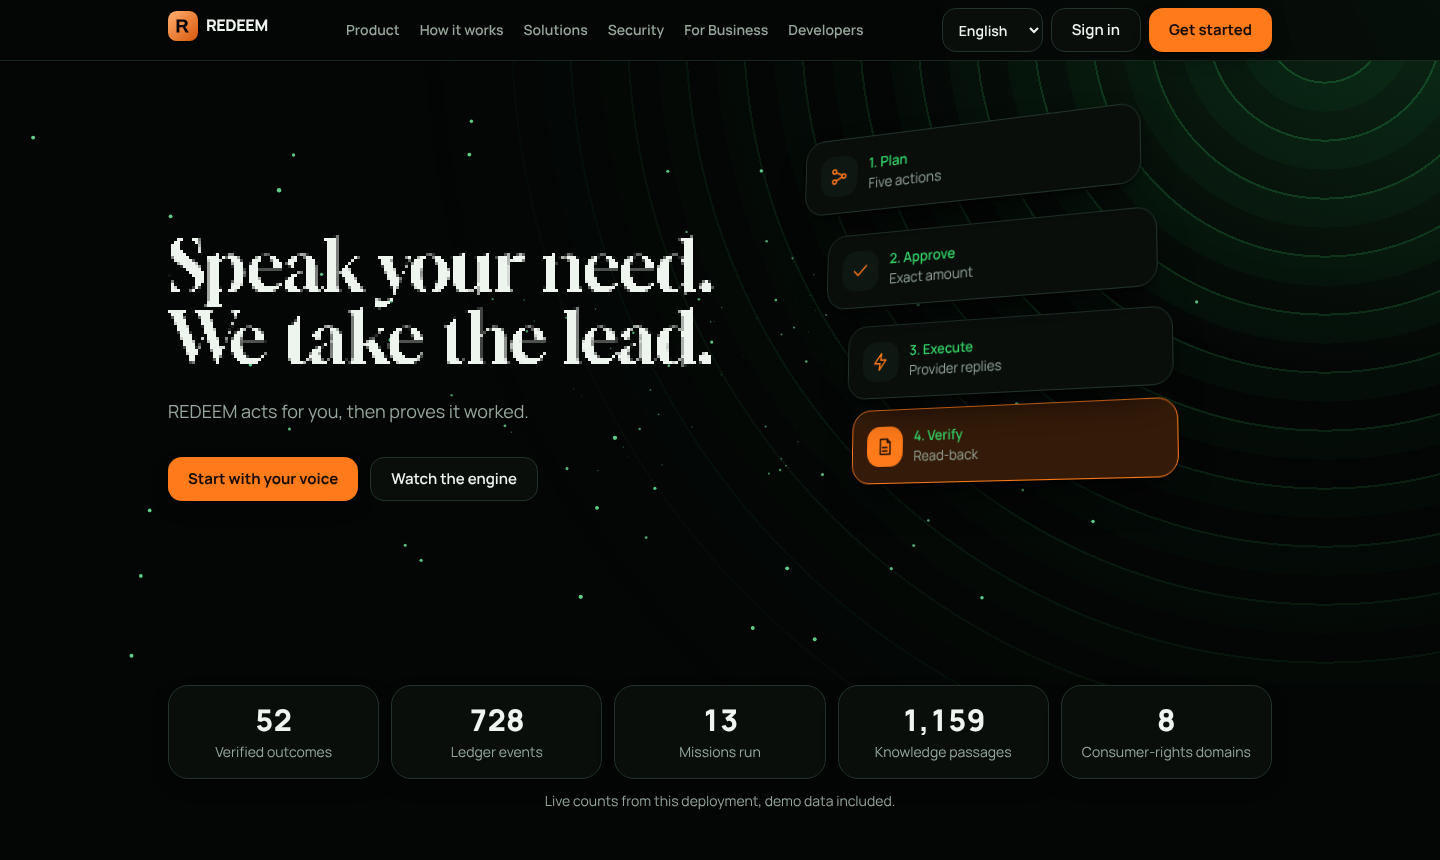
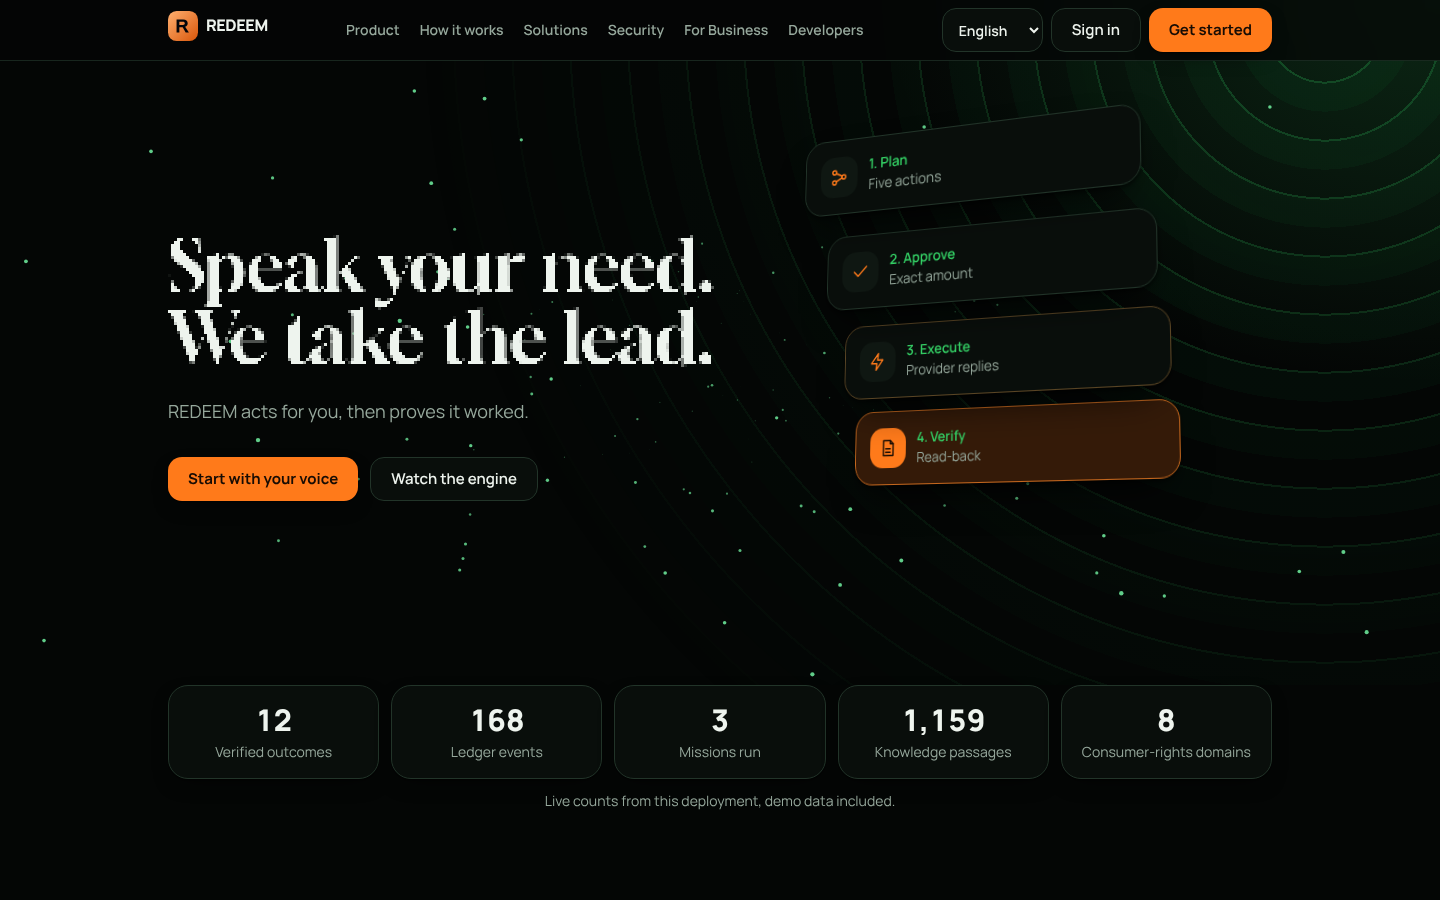
Landing page and README: built-for-the-buildathon section with supplied Y Combinator and Bolna images
Claude-Session: https://claude.ai/code/session_01AyWoGiX39TipuX5UntxDAT

diff --git a/apps/web/app/page.tsx b/apps/web/app/page.tsx
@@ -1,4 +1,5 @@
 "use client";
+/* eslint-disable @next/next/no-img-element */
 import Link from "next/link";
 import { Composer } from "@/components/Composer";
 import { Intro, Reveal, Starfield } from "@/components/Cinematic";
@@ -10,8 +11,8 @@ import { useI18n } from "@/lib/i18n";
 const STEPS: [string, string][] = [["Understand", "Voice or text, five languages."], ["Plan", "Options ranked, nothing run yet."], ["Approve", "Bound to exact target and amount."], ["Verify", "Read back before reporting."]];
 const DOMAINS: [string, string][] = [["Travel", "Refunds, rebooking"], ["Banking", "Disputes, scam checks"], ["Insurance", "Claims, evidence"], ["Telecom", "Billing, outages"],
   ["Retail", "Returns, refunds"], ["Housing", "Deposits, repairs"], ["Government", "Grievances, RTI"], ["Healthcare admin", "Billing, records"]];
-const WORKS: string[] = ["Eight case workflows", "Real Chromium on fixture apps", "Encrypted memory and history", "Verified receipts"];
-const NOT_YET: string[] = ["Live Bolna calls", "Real filing, email or bookings", "OCR for images", "Browser skills"];
+const WORKS: string[] = ["Eight case workflows", "Real browser on fixtures", "Encrypted memory", "Verified receipts"];
+const NOT_YET: string[] = ["Live Bolna calls", "Real filing or email", "Image OCR", "Browser skills"];
 
 export default function Landing() {
   const { t } = useI18n();
@@ -68,12 +69,23 @@ export default function Landing() {
           </div>
         </section>
 
+        <section id="buildathon" className="mx-auto max-w-6xl scroll-mt-24 px-4 pb-32 sm:px-6">
+          <div className="grid items-center gap-10 lg:grid-cols-[minmax(0,1.1fr)_minmax(0,1fr)]">
+            <div><h2 className="text-4xl">Built for the Y Combinator <span className="font-sans">×</span> Symphony Buildathon.</h2>
+              <p className="mt-4 max-w-lg text-lg text-muted">A hackathon prototype made with Bolna, 15 October to 20 November 2026. Many features are unfinished.</p></div>
+            <div className="flex flex-wrap items-center gap-6">
+              <a href="https://www.ycombinator.com" target="_blank" rel="noreferrer" aria-label="Y Combinator"><img src="/brand/ycombinator.png" alt="Y Combinator logo" width={112} height={99} className="h-24 w-auto rounded-xl" /></a>
+              <a href="https://www.bolna.ai" target="_blank" rel="noreferrer" aria-label="Bolna"><img src="/brand/bolna-buildathon.png" alt="Bolna, voice AI agents" width={331} height={175} className="h-28 w-auto rounded-xl border border-line" /></a>
+            </div>
+          </div>
+        </section>
+
         <section className="relative overflow-hidden border-t border-line px-4 py-28 text-center sm:px-6"><div className="rings" aria-hidden="true" />
           <h2 className="relative text-5xl">{t("hero.title1")} {t("hero.title2")}</h2><Link href="/register" className="btn-primary relative mt-8">{t("nav.start")}</Link></section>
       </main>
       <footer className="border-t border-line px-4 py-8 text-sm text-muted sm:px-6"><div className="mx-auto flex max-w-6xl flex-wrap items-center justify-between gap-3"><Logo />
         <button className="btn-ghost" onClick={() => window.dispatchEvent(new Event("redeem:intro"))}>Replay intro</button>
-        <p>Built for the Bolna x YC Symphony Buildathon. Not endorsed by Bolna or Y Combinator.</p></div></footer>
+        <p>Not endorsed by Bolna, Symphony or Y Combinator.</p></div></footer>
     </>
   );
 }

diff --git a/README.md b/README.md
@@ -11,9 +11,11 @@ REDEEM turns a spoken request into a **planned, approved, executed and independe
 ![crypto](https://img.shields.io/badge/data-AES--256--GCM_envelope-ff7a1a?style=for-the-badge&labelColor=0a0909)
 ![db](https://img.shields.io/badge/PostgreSQL_16-verified_locally-ff7a1a?style=for-the-badge&labelColor=0a0909)
 
-<a href="https://www.ycombinator.com"><img src="docs/assets/buildathon-banner.png" alt="Y Combinator × Symphony Buildathon, Bolna, Oct 15 – Nov 20, 2026" width="46%"/></a>
+<a href="https://www.ycombinator.com"><img src="docs/assets/buildathon-banner.png" alt="Y Combinator × Symphony Buildathon, Bolna, Oct 15 to Nov 20, 2026" width="46%"/></a>
 
-**Built for the Y Combinator × Symphony Buildathon (powered by Bolna), Oct 15 – Nov 20, 2026.** This is a hackathon prototype: **many features do not work yet or run only on labelled fixtures** (live Bolna calls, real bookings/filing/email, OCR, LLM, browser skills, WebGL). Every status below is generated from tests, not from intent. The banner above is the event's artwork, shown for context; this project is not endorsed by the event or its organisers.
+<a href="https://www.ycombinator.com"><img src="docs/assets/ycombinator.png" alt="Y Combinator logo" height="90"/></a>&nbsp;&nbsp;&nbsp;<a href="https://www.bolna.ai"><img src="docs/assets/bolna-buildathon.png" alt="Bolna, voice AI agents" height="90"/></a>
+
+**REDEEM is a prototype built for the Y Combinator × Symphony Buildathon, run with Bolna, 15 October to 20 November 2026** (dates as printed on the event banner). It was made during the buildathon on Bolna's voice platform, so **many features are unfinished, blocked on credentials, or run only on labelled fixtures** (live Bolna calls, real bookings, filing and email, OCR, LLM, browser skills, WebGL). Every status below is generated from tests, not intent. The logos and banner are shown for context only; this project is not endorsed by, sponsored by or affiliated with Y Combinator, Symphony or Bolna.
 
 <img src="docs/media/intro.gif" alt="REDEEM intro: two cubes arrive from left and right, collide, the REDEEM wordmark and orange tagline appear" width="80%"/>
 
@@ -23,12 +25,12 @@ REDEEM turns a spoken request into a **planned, approved, executed and independe
 
 | | |
 |---|---|
-| **[Bolna](https://www.bolna.ai)** | Voice provider (the only live voice-call integration). No live call has been made without credentials. |
+| **[Bolna](https://www.bolna.ai)** | Buildathon partner and the voice provider (the only live voice-call integration). No live call has been made without credentials. |
 | **[Wispr Flow](https://wisprflow.ai)** | Shown in the intro as the second cube. |
-| **[Y Combinator](https://www.ycombinator.com)** | Built for the Bolna × YC Symphony Buildathon 2026. |
+| **[Y Combinator](https://www.ycombinator.com)** | Named in the event title, Y Combinator × Symphony Buildathon, which this was built for. |
 | **[WeMakeDevs](https://www.wemakedevs.org)** | Event community. |
 
-> Not endorsed by, sponsored by, or affiliated with any of the above. **Official logo artwork is not embedded**: the build sandbox could not reach those sites, and logos are never redrawn. Drop official files into [`apps/web/public/brand/`](apps/web/public/brand/README.md) and the intro cubes and this section can show them.
+> Not endorsed by, sponsored by, or affiliated with any of the above. Y Combinator and Bolna artwork above was supplied by the project owner; Wispr Flow and WeMakeDevs artwork is not embedded (logos are never redrawn). Drop official files into [`apps/web/public/brand/`](apps/web/public/brand/README.md) and the intro cubes and this section can show them.
 
 ## The 3D emblem
 

diff --git a/docs/DESIGN_AUDIT.md b/docs/DESIGN_AUDIT.md
@@ -20,3 +20,6 @@ The concentric green arcs from the Buildathon artwork (a decorative radial motif
 
 ## Not done
 Spacing tokens (`--space-*`), a `design.md` lock, a full app-screen recomposition, and the Hallmark hero/finish reviews (they need its scripts and a subagent).
+
+## Buildathon context (added)
+The landing page and README now state that REDEEM is a prototype built for the Y Combinator × Symphony Buildathon with Bolna, 15 Oct to 20 Nov 2026, using the Y Combinator logo and Bolna image supplied by the project owner (`apps/web/public/brand/`). Dates come from the event banner. A web search did not confirm the event details (it surfaced only a "Symphony by Bolna" Voice AI summit on 20 Nov, unverified), and "YC25" was not used because the banner says 2026; correct the wording if the organisers say otherwise.
